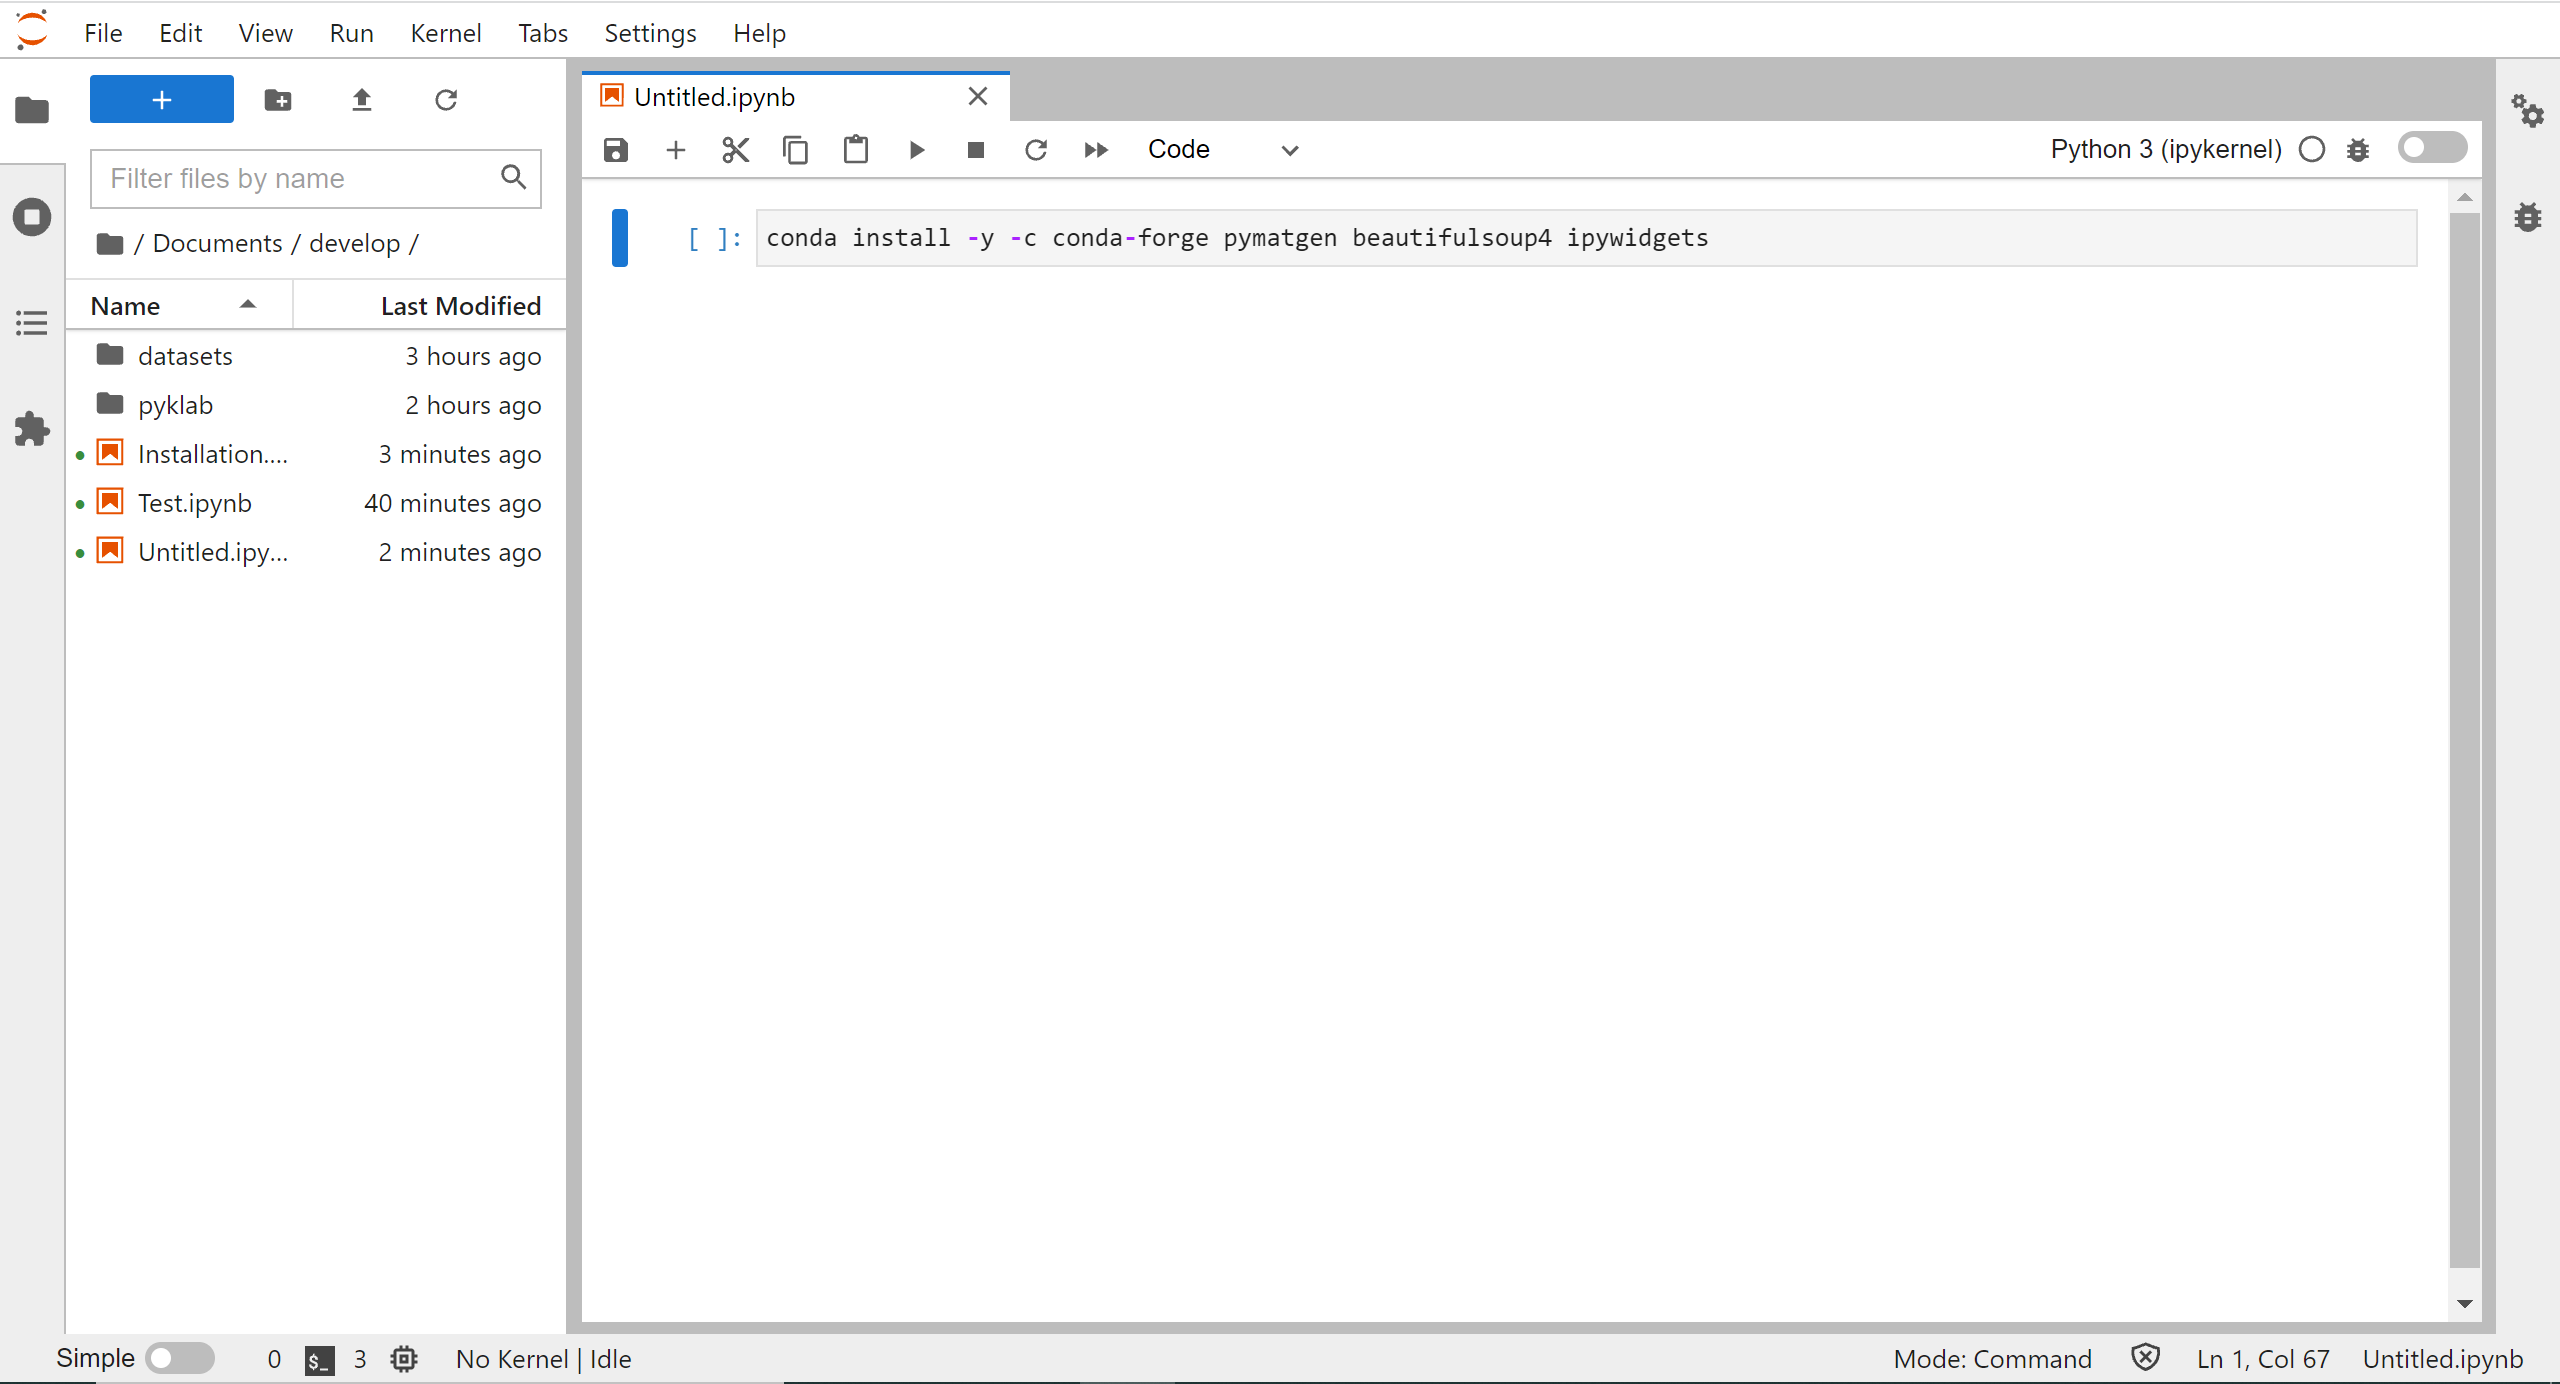
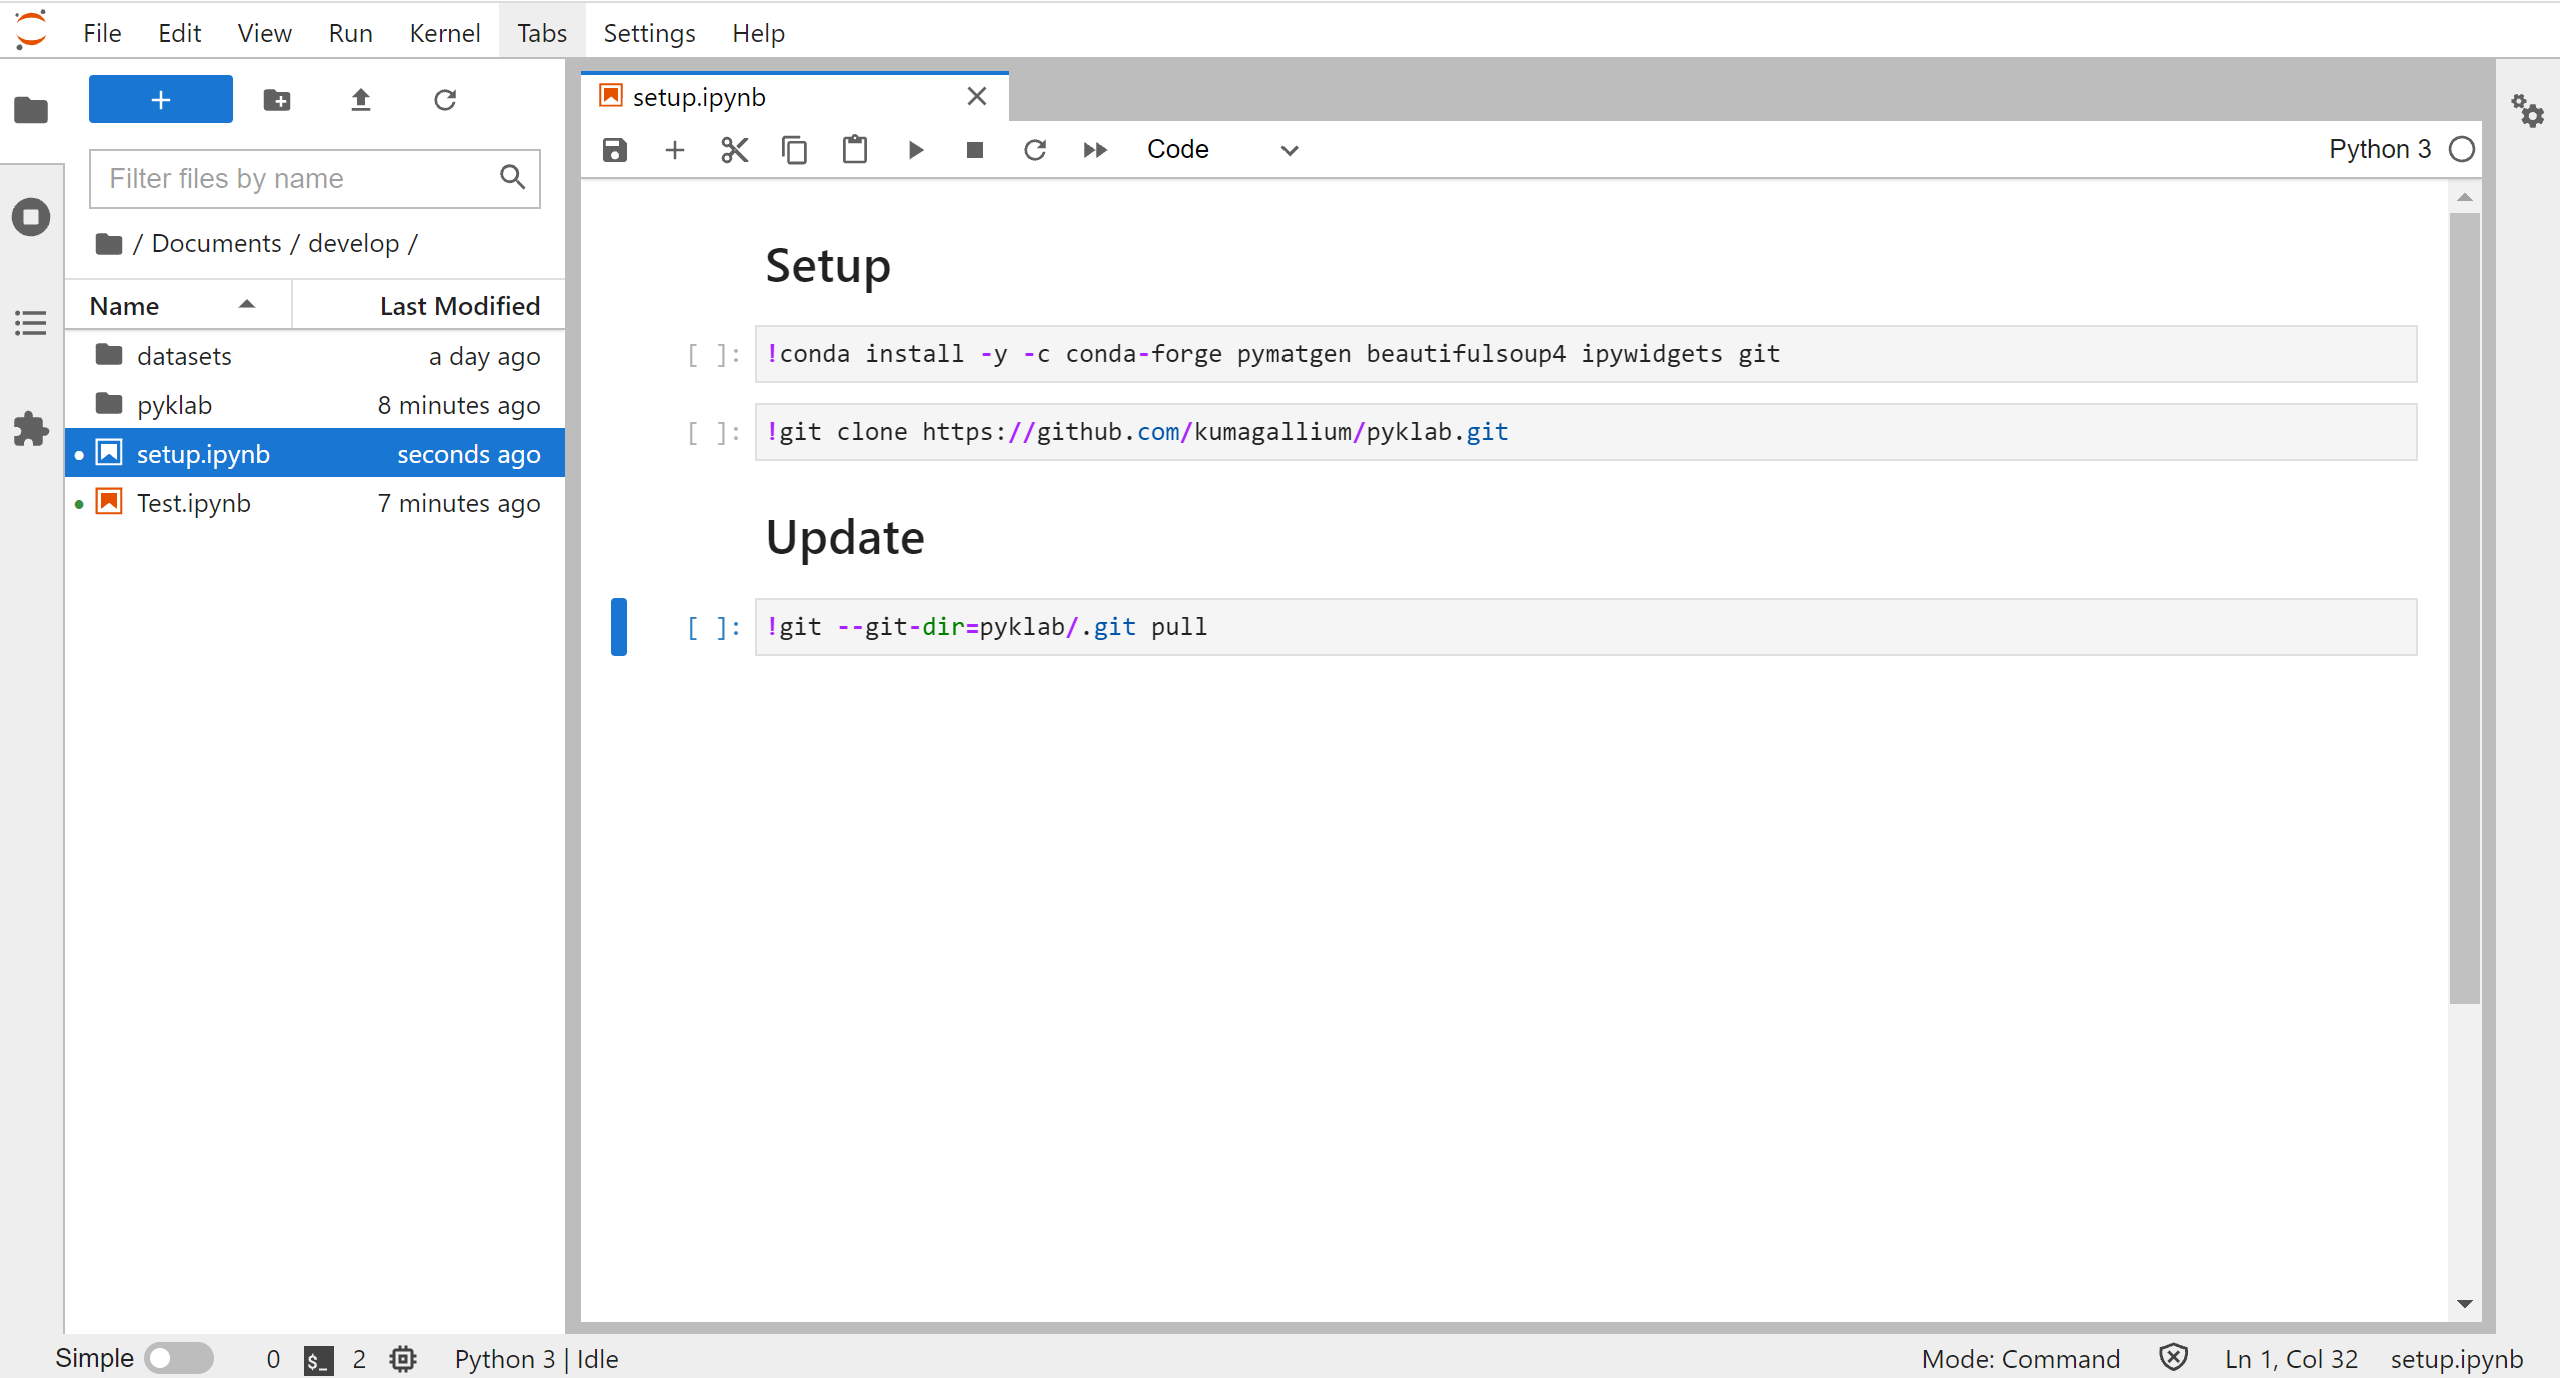
fix: change the setup procedure on GUI

diff --git a/README.md b/README.md
@@ -9,20 +9,23 @@ Set up an environment with a directory tree structure like the following.
   |- ~~.ipynb
 ```
 
-### <b>○ GUI (Anaconda Navigator)</b>
-#### 1. Download the source code from the "Download ZIP" button under "Code" in this repository.
-
-<img width="1180" alt="vpd-image" src="docs/images/github.PNG">
-<br><br>
-
-#### 2. Unzip the downloaded zip file and copy or move the extracted directory to your working space. Please modify the name of the directory from "pyklab-main" to "pyklab".
-
-#### 3. After [starting jupyterlab](docs/jupyterlab_setup.md), create new notebook for the installation and run the following command.
+### <b>○ GUI</b>
+#### 1. After [starting jupyterlab](docs/jupyterlab_setup.md), create new notebook (e.g. setup.ipynb) for setup and run the following commands on the notebook.
 ```
-conda install -y -c conda-forge pymatgen beautifulesoup4 ipywidgets
+!conda install -y -c conda-forge pymatgen beautifulesoup4 ipywidgets git
+```
+```
+!git clone https://github.com/kumagallium/pyklab.git
 ```
 
 <img width="1180" alt="vpd-image" src="docs/images/jupyterlab_install.png">
+<br><br>
+
+#### 2. If you want to update the library to the latest version, please run the following command on your workspace.
+```
+!git --git-dir=pyklab/.git pull
+```
+
 ※You can also use the Anaconda prompt to do the installation, but here we show you how to do it without seeing the black command screen.
 
 ※For detailed usage of jupyterlab, please see other sites.
@@ -41,6 +44,12 @@ jupyter lab
 ```
 <img width="1180" alt="vpd-image" src="docs/images/jupyterlab.png">
 <br><br>
+
+#### 3. If you want to update the library to the latest version, please execute the following commands.
+```
+cd pyklab
+git pull
+```
 
 ## How to use
 On jupyterlab, you can start using this library by importing pyklab.
